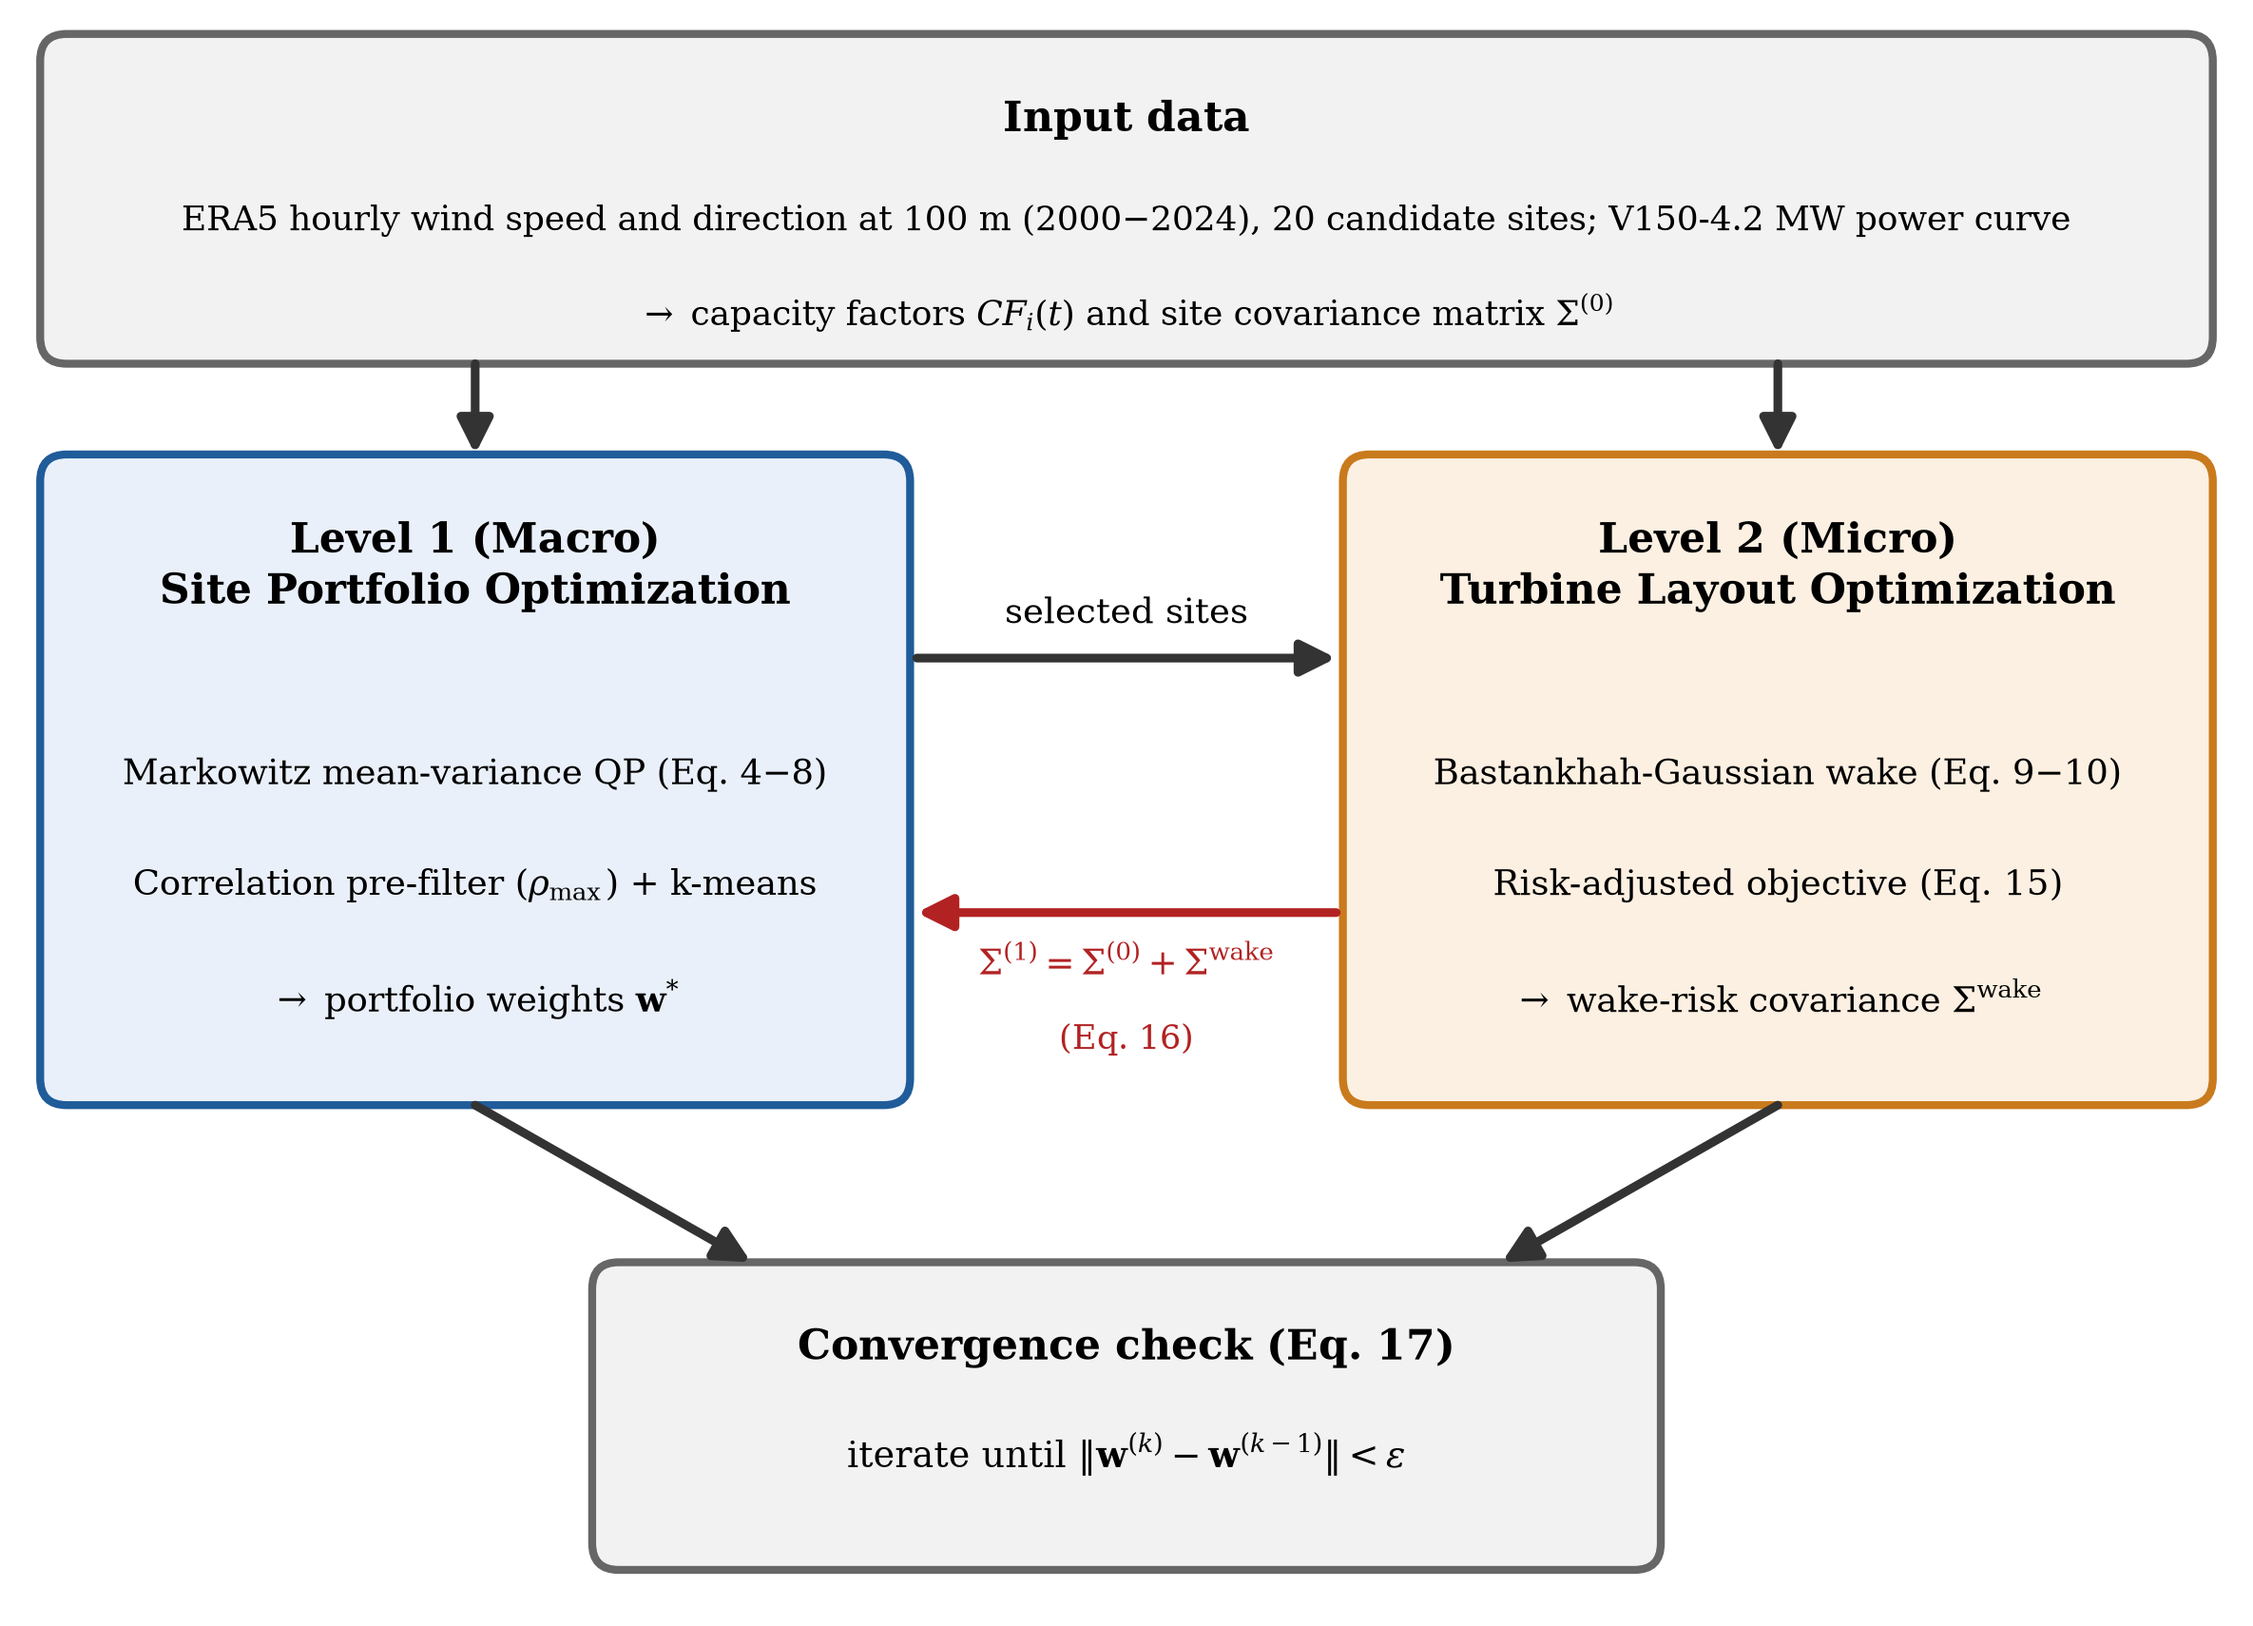
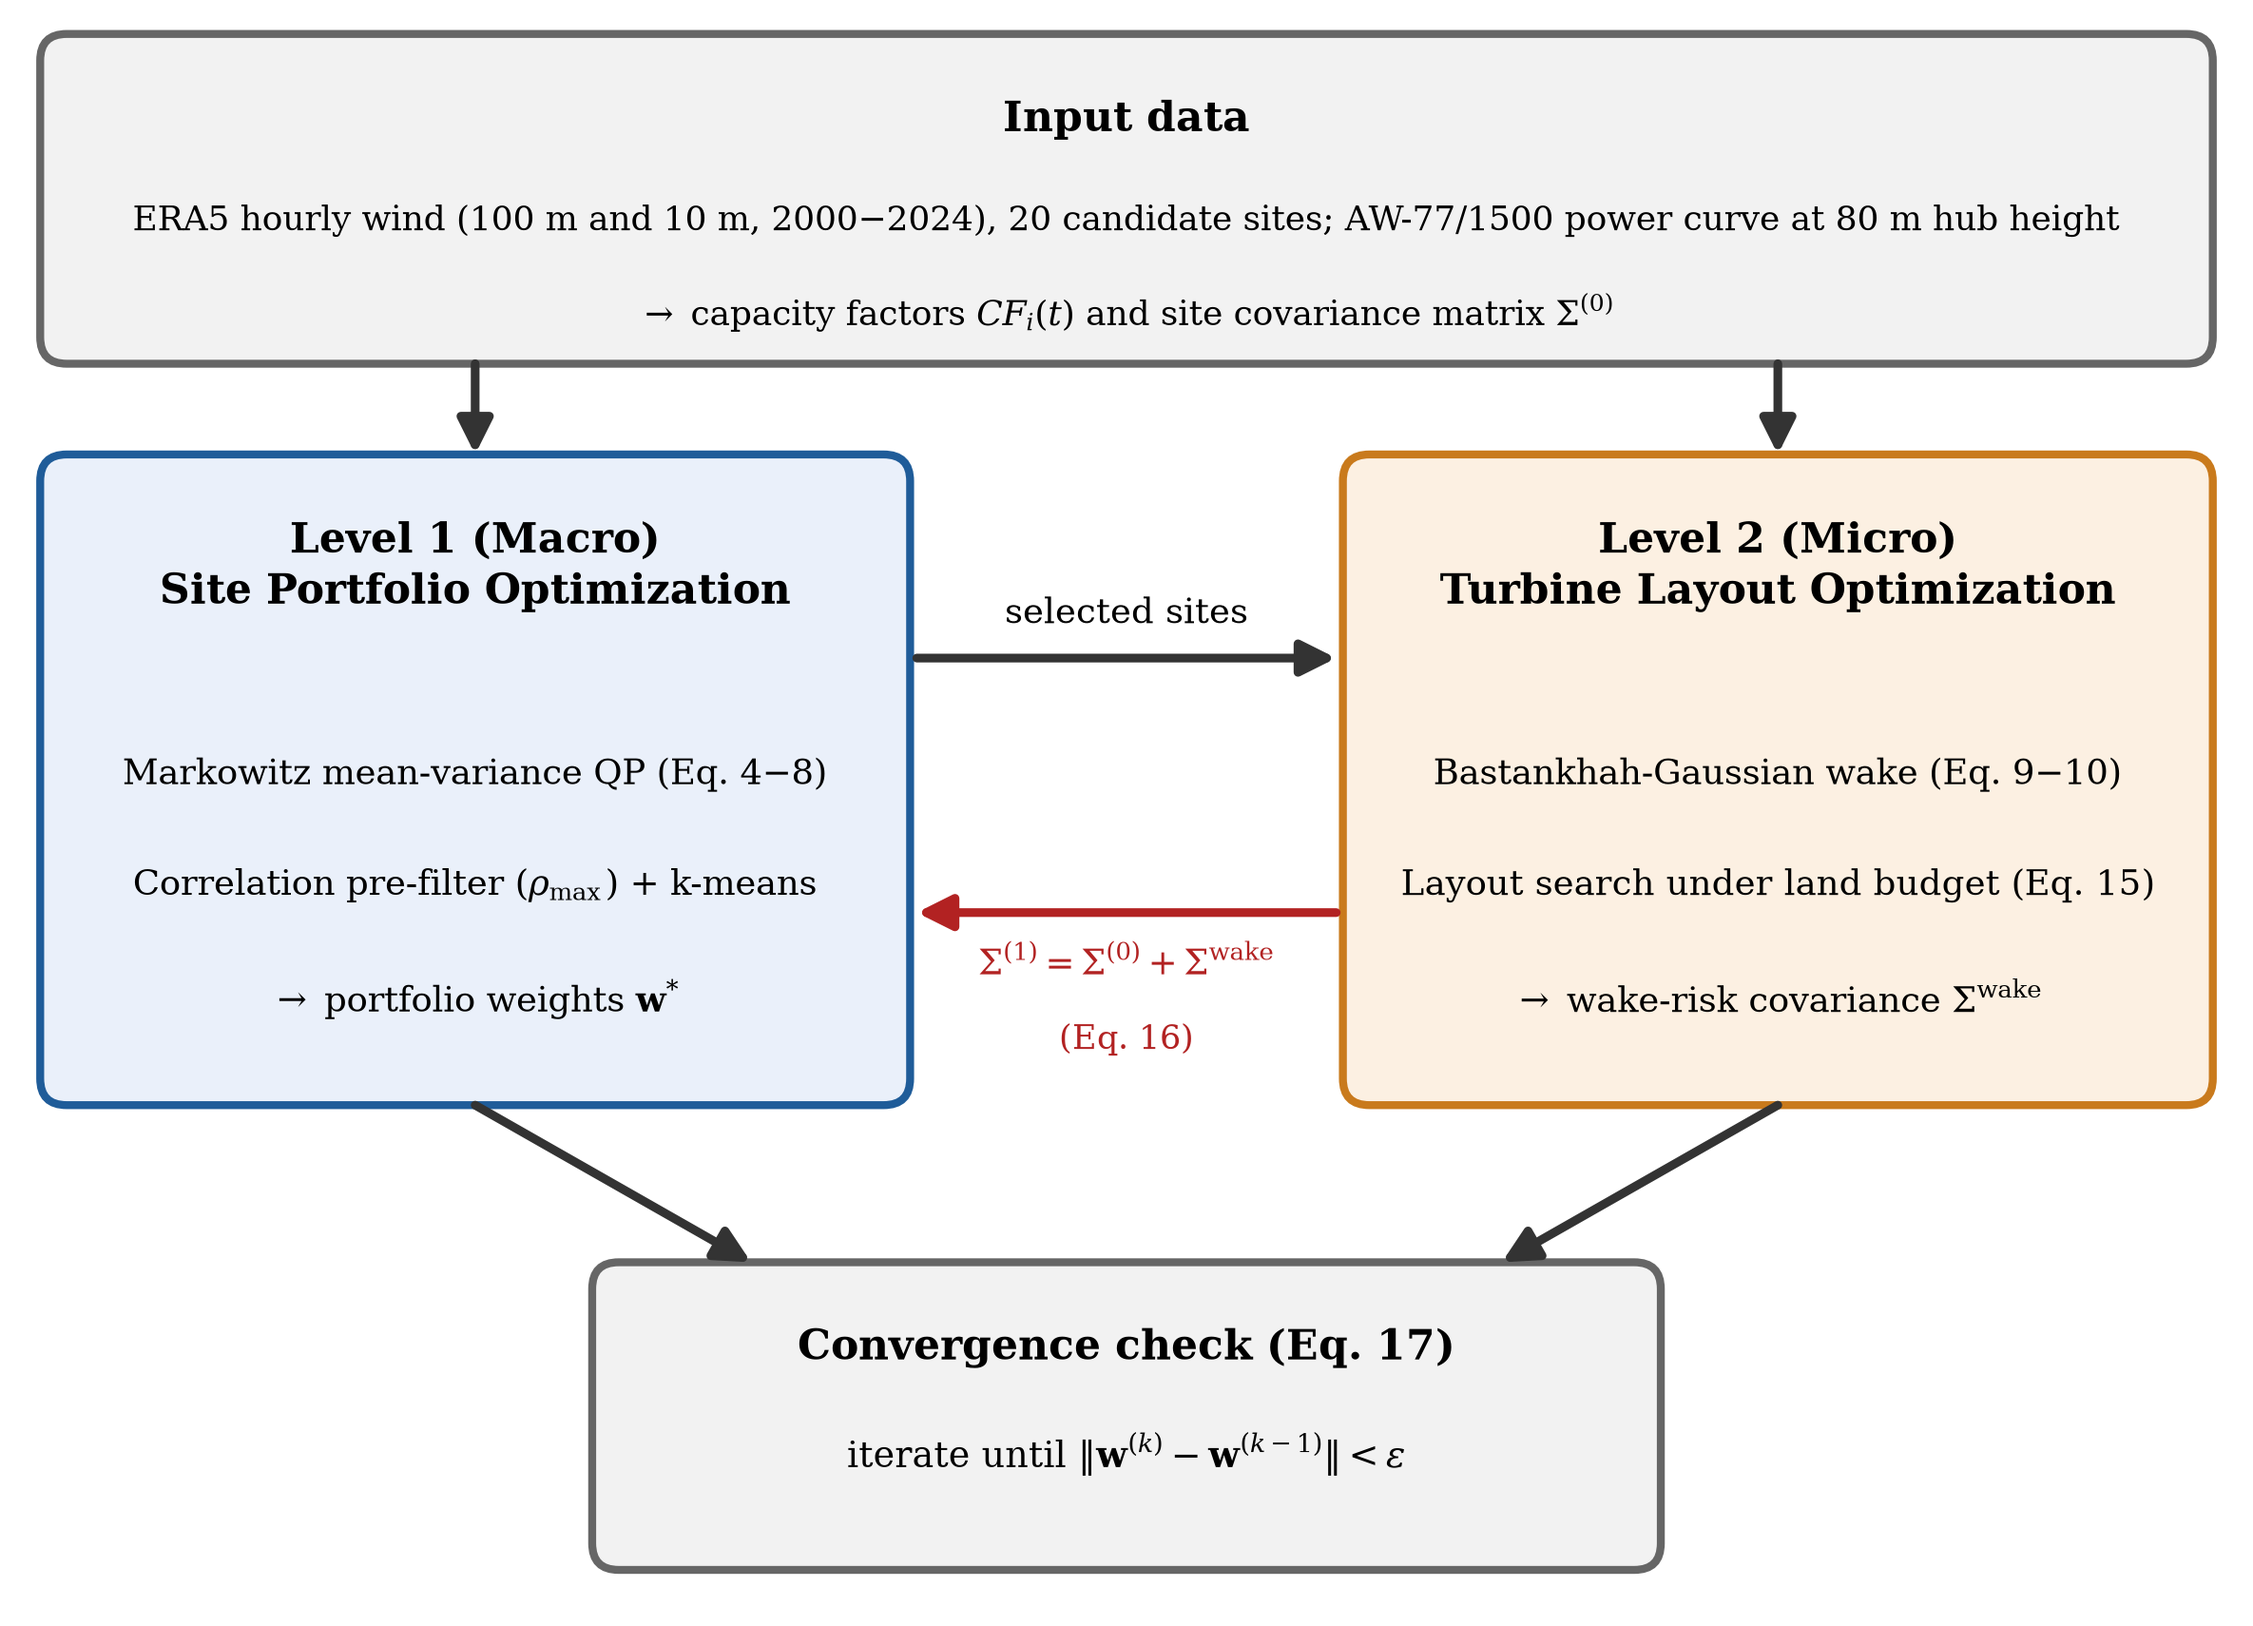
Update Figure 1 text and legibility of Figures 3 and B.1

Changed region(s): [[0.0624, 0.124, 0.9367, 0.155], [0.6245, 0.5269, 0.9367, 0.5579]]

diff --git a/src/make_figures.py b/src/make_figures.py
@@ -55,7 +55,7 @@ def fig_efficient_frontier():
 
 def fig_wind_roses():
     sites = list(cf_df.columns)
-    fig = plt.figure(figsize=(12, 10))
+    fig = plt.figure(figsize=(9, 7.4))
     for i, site in enumerate(sites):
         ax = fig.add_subplot(4, 5, i + 1, projection="polar")
         d = dir_df[site].values
@@ -66,8 +66,8 @@ def fig_wind_roses():
                edgecolor="k", linewidth=0.3)
         ax.set_theta_zero_location("N")
         ax.set_theta_direction(-1)
-        ax.set_title(site, fontsize=10)
-        ax.tick_params(labelsize=6)
+        ax.set_title(site, fontsize=11)
+        ax.tick_params(labelsize=7)
     fig.tight_layout()
     fig.savefig(os.path.join(FIG_DIR, "figB1_wind_roses.png"), dpi=250)
     plt.close(fig)
@@ -117,16 +117,16 @@ def fig_layout_comparison(area=30.0):
     xmax = max(p[:, 0].max() for p in lays) + 6.5 * D
     ymin = min(p[:, 1].min() for p in lays) - 1.5 * D
     ymax = max(p[:, 1].max() for p in lays) + 1.5 * D
-    fig, axes = plt.subplots(1, 2, figsize=(11, 5.2), sharex=True, sharey=True)
+    fig, axes = plt.subplots(1, 2, figsize=(8, 4.4), sharex=True, sharey=True)
     for ax, (label, row), pos in zip(axes, panels, lays):
-        ax.scatter(pos[:, 0], pos[:, 1], s=130, c="#1f77b4", edgecolor="k", zorder=5)
+        ax.scatter(pos[:, 0], pos[:, 1], s=70, c="#1f77b4", edgecolor="k", zorder=5)
         ax_x = xmax - 2.0 * D
         ax.annotate("", xy=(ax_x, 3.0 * D), xytext=(ax_x, -3.0 * D),
                     arrowprops=dict(arrowstyle="<|-|>", color="#B22222", lw=2))
-        ax.text(ax_x, -3.6 * D, "dominant N-S wind", color="#B22222", fontsize=8, ha="center", va="top")
+        ax.text(ax_x, -3.6 * D, "dominant\nN-S wind", color="#B22222", fontsize=7.5, ha="center", va="top")
         ax.set_title(f"{label}: {row['along_D']:.0f}D x {row['cross_D']:.0f}D, stagger {row['stagger']:.2f}"
                      f"\nAEP = {row['aep_gwh']:.2f} GWh/yr, WR = {row['wake_risk']:.4f} MW$^2$, "
-                     f"corr = {row['mean_corr']:.3f}", fontsize=9.5)
+                     f"corr = {row['mean_corr']:.3f}", fontsize=7.5)
         ax.set_xlim(xmin, xmax)
         ax.set_ylim(ymin, ymax)
         ax.set_aspect("equal")

diff --git a/src/make_figure1.py b/src/make_figure1.py
@@ -33,8 +33,8 @@ def arrow(p0, p1, color="#333333", lw=2.2):
 
 # Inputs
 box(0.1, 5.65, 9.8, 1.45, "#F2F2F2", "#666666", "Input data",
-    [r"ERA5 hourly wind speed and direction at 100 m (2000$-$2024), 20 candidate sites; "
-     r"V150-4.2 MW power curve",
+    [r"ERA5 hourly wind (100 m and 10 m, 2000$-$2024), 20 candidate sites; "
+     r"AW-77/1500 power curve at 80 m hub height",
      r"$\rightarrow$ capacity factors $CF_i(t)$ and site covariance matrix $\Sigma^{(0)}$"],
     start=0.75, step=0.4, line_size=8.6)
 
@@ -45,7 +45,7 @@ box(0.1, 2.3, 3.9, 2.9, "#EAF0FA", "#1F5C99", "Level 1 (Macro)\nSite Portfolio O
      r"$\rightarrow$ portfolio weights $\mathbf{w}^{*}$"])
 box(6.0, 2.3, 3.9, 2.9, "#FCF0E2", "#C97A1C", "Level 2 (Micro)\nTurbine Layout Optimization",
     [r"Bastankhah-Gaussian wake (Eq. 9$-$10)",
-     r"Risk-adjusted objective (Eq. 15)",
+     r"Layout search under land budget (Eq. 15)",
      r"$\rightarrow$ wake-risk covariance $\Sigma^{\mathrm{wake}}$"])
 
 # Inputs -> levels
